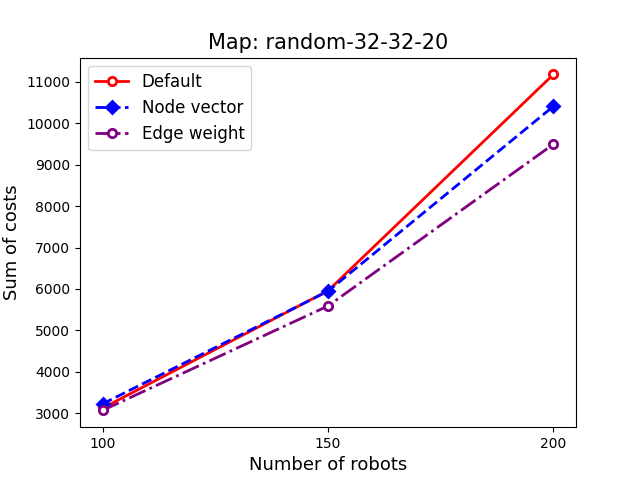
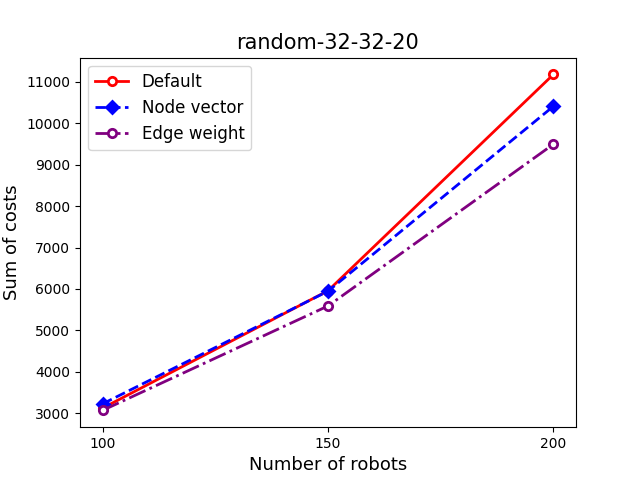
.

Changed region(s): [[0.3125, 0.0625, 0.7188, 0.125]]

diff --git a/Best_chromosomes/results_to_table.py b/Best_chromosomes/results_to_table.py
@@ -1,0 +1,69 @@
+import copy
+from typing import List
+import itertools
+import numpy as np
+from dask.distributed import Client, LocalCluster
+from dask import delayed
+import csv
+import os
+import sys
+from statistics import mean
+import matplotlib.pyplot as plt
+
+# Self made imports
+
+# Get the path of the current script
+script_dir = os.path.dirname(os.path.abspath(__file__))
+# Add the parent directory of the current script to the Python path
+parent_dir = os.path.abspath(os.path.join(script_dir, '..'))
+sys.path.append(parent_dir)
+
+
+def print_latex_table_row(row):
+    formatted_row = " & ".join(map(str, row))
+    print(formatted_row + " ")
+
+def read_csv_file(file_path):
+    headline = ["Environment", "Agents" , "Encoding", "P-Value SOC", "P-Value Waits", "P-Value Conflicts", "Rule Order", "SOC (Optimized)" ,"Makespan (Optimized)", "Failrate (Optimized)", "Waits (Optimized)", "Conflicts (Optimized)", "SOC", "Makespan", "failrate", "waits", "conflicts"]
+    print_latex_table_row(headline)
+    with open(file_path, 'r') as csv_file:
+        csv_reader = csv.reader(csv_file)
+        for row in csv_reader:
+            print_latex_table_row(row)
+
+def read_csv_file_soc(file_path):
+    # Update the headline list with the desired columns
+    headline = ["Map", "Agents", "P-Value", "SOC (Optimized)", "SOC","Improvement (%)"]
+    print_latex_table_row(headline)
+    with open(file_path, 'r') as csv_file:
+        csv_reader = csv.reader(csv_file)
+        for row in csv_reader:
+            # Extract the specific columns from the row
+            if row[0]=="fluid_test_smallscale":
+                specific_columns = ["passage", row[1], round(float(row[3]),3), round(float(row[7]),2), round(float(row[-5]),2), f"{round((-(float(row[7])-float(row[-5]))/float(row[-5]))*100,2)} %"]
+            else:
+                specific_columns = [row[0], row[1], round(float(row[3]),3), round(float(row[7]),2), round(float(row[-5]),2), f"{round((-(float(row[7])-float(row[-5]))/float(row[-5]))*100,2)} %"]
+            print_latex_table_row(specific_columns)
+
+
+def read_csv_file_wait_conflict(file_path):
+    # Update the headline list with the desired columns
+    headline = ["Map", "Agents", "P-Value wait","wait (Optimized)", "wait","P-Value conflict", "conflict (Optimized)", "conflict"]
+    print_latex_table_row(headline)
+    with open(file_path, 'r') as csv_file:
+        csv_reader = csv.reader(csv_file)
+        for row in csv_reader:
+            # Extract the specific columns from the row
+            if row[0]=="fluid_test_smallscale":
+                specific_columns = ["passage", row[1], round(float(row[4]),3), round(float(row[10]),2), round(float(row[15]),2), round(float(row[5]),3), round(float(row[11]),2), round(float(row[16]),2)]
+            else:
+                specific_columns = [row[0], row[1], round(float(row[4]),3), round(float(row[10]),2), round(float(row[15]),2), round(float(row[5]),3), round(float(row[11]),2), round(float(row[16]),2)]
+            print_latex_table_row(specific_columns)
+
+
+
+csv_file_path = "Best_chromosomes/results.csv"
+# for i, idx in enumerate(["Environment", "Agents" , "Encoding", "P-Value SOC", "P-Value Waits", "P-Value Conflicts", "Rule Order", "SOC (Optimized)" ,"Makespan (Optimized)", "Failrate (Optimized)", "Waits (Optimized)", "Conflicts (Optimized)", "SOC", "Makespan", "failrate", "waits", "conflicts"]):
+#     print(i,idx)
+read_csv_file_soc(csv_file_path)
+# read_csv_file_wait_conflict(csv_file_path)

diff --git a/Best_chromosomes/plots.py b/Best_chromosomes/plots.py
@@ -108,7 +108,7 @@ for i in range(4):
     plt.plot(densities, soc_best_node, marker=maker3, linestyle=line_style3, linewidth=2, markersize=marker_size, markeredgewidth=marker_edge_width, label=data[i_n_1][encoding_scheme_name], color="blue",markerfacecolor=markerfacecolor3)
     plt.plot(densities, soc_best_edge, marker=maker1, linestyle=line_style4, linewidth=2, markersize=marker_size, markeredgewidth=marker_edge_width, label=data[i_1][encoding_scheme_name], color="purple",markerfacecolor=markerfacecolor1)
 
-    plt.title("Map: " + data[i_1][map_name], fontsize=title_size)
+    plt.title(data[i_1][map_name], fontsize=title_size)
     plt.xlabel('Number of robots', fontsize=label_size)
     plt.ylabel('Sum of costs', fontsize=label_size)
     plt.xticks(densities[::])
@@ -122,7 +122,7 @@ for i in range(4):
     plt.plot(densities, error_best_node, marker=maker3, linestyle=line_style3, linewidth=2, markersize=marker_size, markeredgewidth=marker_edge_width, label=data[i_n_1][encoding_scheme_name], color="blue",markerfacecolor=markerfacecolor3)
     plt.plot(densities, error_best_edge, marker=maker1, linestyle=line_style4, linewidth=2, markersize=marker_size, markeredgewidth=marker_edge_width, label=data[i_1][encoding_scheme_name], color="purple",markerfacecolor=markerfacecolor1)
 
-    plt.title("Map: " + data[i_1][map_name], fontsize=title_size)
+    plt.title(data[i_1][map_name], fontsize=title_size)
     plt.xlabel('Number of robots', fontsize=label_size)
     plt.ylabel('Success rate', fontsize=label_size)
     plt.xticks(densities[::])
@@ -136,7 +136,7 @@ for i in range(4):
     plt.plot(densities, waits_best_node, marker=maker3, linestyle=line_style3, linewidth=2, markersize=marker_size, markeredgewidth=marker_edge_width, label=data[i_n_1][encoding_scheme_name], color="blue",markerfacecolor=markerfacecolor3)
     plt.plot(densities, waits_best_edge, marker=maker1, linestyle=line_style4, linewidth=2, markersize=marker_size, markeredgewidth=marker_edge_width, label=data[i_1][encoding_scheme_name], color="purple",markerfacecolor=markerfacecolor1)
 
-    plt.title("Map: " + data[i_1][map_name], fontsize=title_size)
+    plt.title(data[i_1][map_name], fontsize=title_size)
     plt.xlabel('Number of robots', fontsize=label_size)
     plt.ylabel('Average number of waits', fontsize=label_size)
     plt.xticks(densities[::])
@@ -151,7 +151,7 @@ for i in range(4):
     plt.plot(densities, conflicts_best_node, marker=maker3, linestyle=line_style3, linewidth=2, markersize=marker_size, markeredgewidth=marker_edge_width, label=data[i_n_1][encoding_scheme_name], color="blue",markerfacecolor=markerfacecolor3)
     plt.plot(densities, conflicts_best_edge, marker=maker1, linestyle=line_style4, linewidth=2, markersize=marker_size, markeredgewidth=marker_edge_width, label=data[i_1][encoding_scheme_name], color="purple",markerfacecolor=markerfacecolor1)
 
-    plt.title("Map: " + data[i_1][map_name], fontsize=title_size)
+    plt.title(data[i_1][map_name], fontsize=title_size)
     plt.xlabel('Number of robots', fontsize=label_size)
     plt.ylabel('Average number of conflicts', fontsize=label_size)
     plt.xticks(densities[::])
